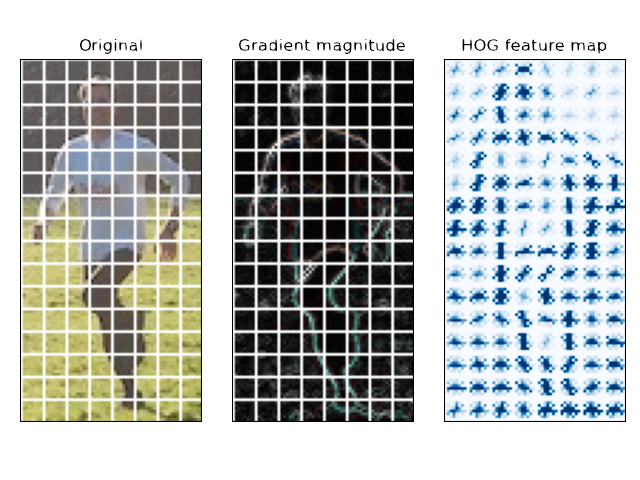
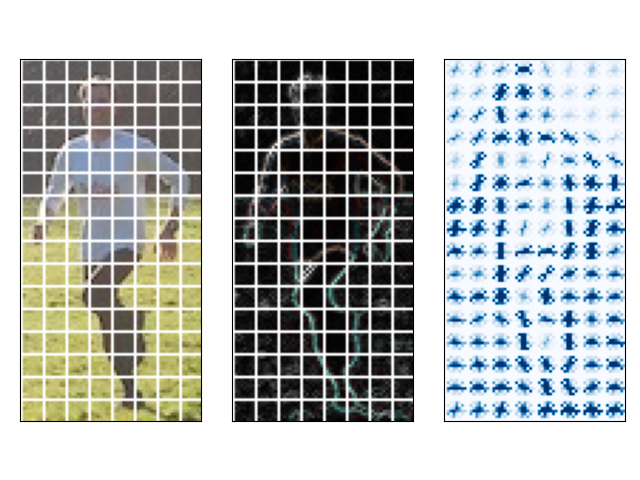
Adjusted for dark mode

Changed region(s): [[0.375, 0.0625, 0.625, 0.125], [0.7188, 0.0625, 0.9375, 0.125], [0.125, 0.0625, 0.2188, 0.125]]

diff --git a/hog.py b/hog.py
@@ -28,21 +28,21 @@ mag, angle = cv.cartToPolar(gx, gy, angleInDegrees=True)
 # Plot x, y, and magnitude of gradients
 plt.subplot(1,3,1)
 plt.imshow(gx, cmap='Blues')
-plt.title('Gradient x')
+plt.title('Gradient x', color='white')
 plt.xticks([])
 plt.yticks([])
 plt.subplot(1,3,2)
 plt.imshow(gy, cmap='Blues')
-plt.title('Gradient y')
+plt.title('Gradient y', color='white')
 plt.xticks([])
 plt.yticks([])
 plt.subplot(1,3,3)
 plt.imshow(mag, cmap='Blues')
-plt.title('Gradient magnitude')
+plt.title('Gradient magnitude', color='white')
 plt.xticks([])
 plt.yticks([])
 plt.tight_layout()
-plt.savefig('hog-example-gradients.png')
+plt.savefig('images/hog-example-gradients.png', transparent=True)
 plt.show()
 
 # Make final plot
@@ -64,21 +64,21 @@ mag[::dy,:,:] = colour
 
 plt.subplot(1,3,1)
 plt.imshow(implot)
-plt.title('Original')
+plt.title('Original', color='white')
 plt.xticks([])
 plt.yticks([])
 plt.subplot(1,3,2)
 plt.imshow(mag, cmap='Blues')
-plt.title('Gradient magnitude')
+plt.title('Gradient magnitude', color='white')
 plt.xticks([])
 plt.yticks([])
 
 plt.subplot(1,3,3)
 plt.imshow(hogimage, cmap='Blues')
-plt.title('HOG feature map')
+plt.title('HOG feature map', color='white')
 plt.xticks([])
 plt.yticks([])
 
 plt.tight_layout()
-plt.savefig('hog-example.png')
+plt.savefig('images/hog-example.png', transparent=True)
 plt.show()

diff --git a/sobel.py b/sobel.py
@@ -23,7 +23,7 @@ dst = cv.Sobel(gray, ddepth, 1, 0) # Gradients in x direction
 img[dst>0.01*dst.max()] = [0,0,255]
 
 # Save image
-cv.imwrite("Harris-example.jpg", img)
+cv.imwrite("sobel-example.jpg", img)
 
 # Show image with keypoints
 cv.imshow('image', img)
